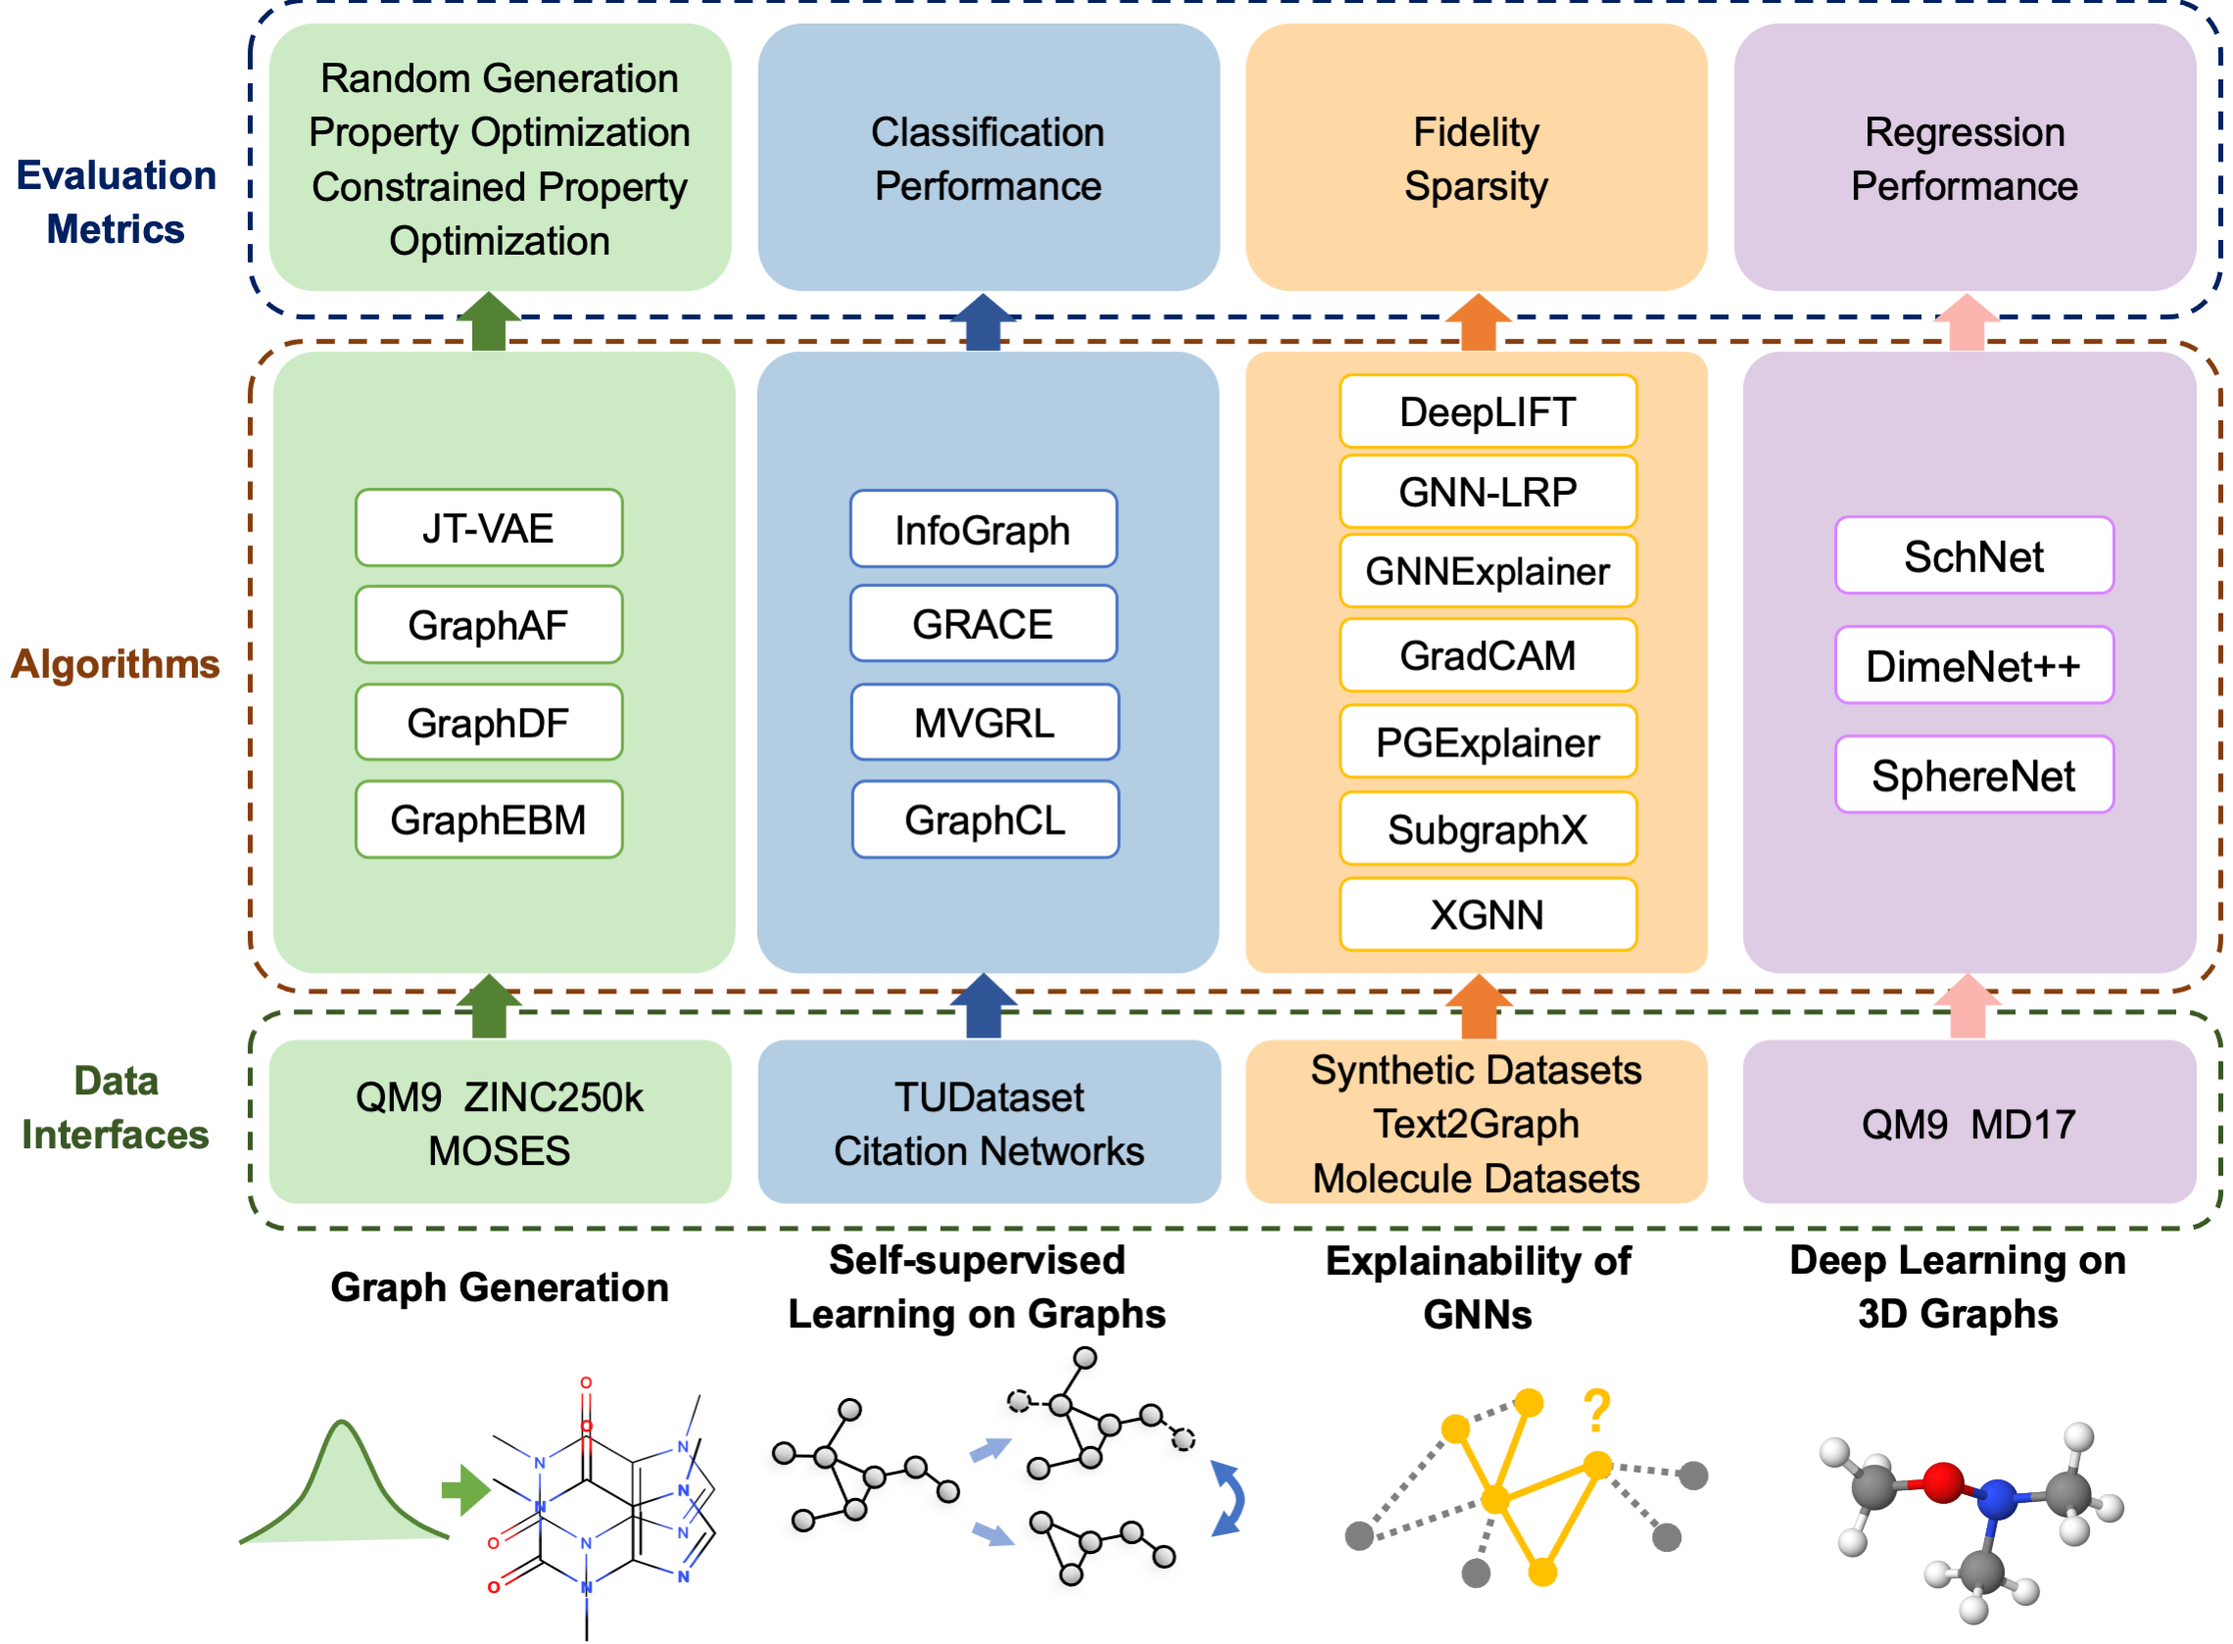
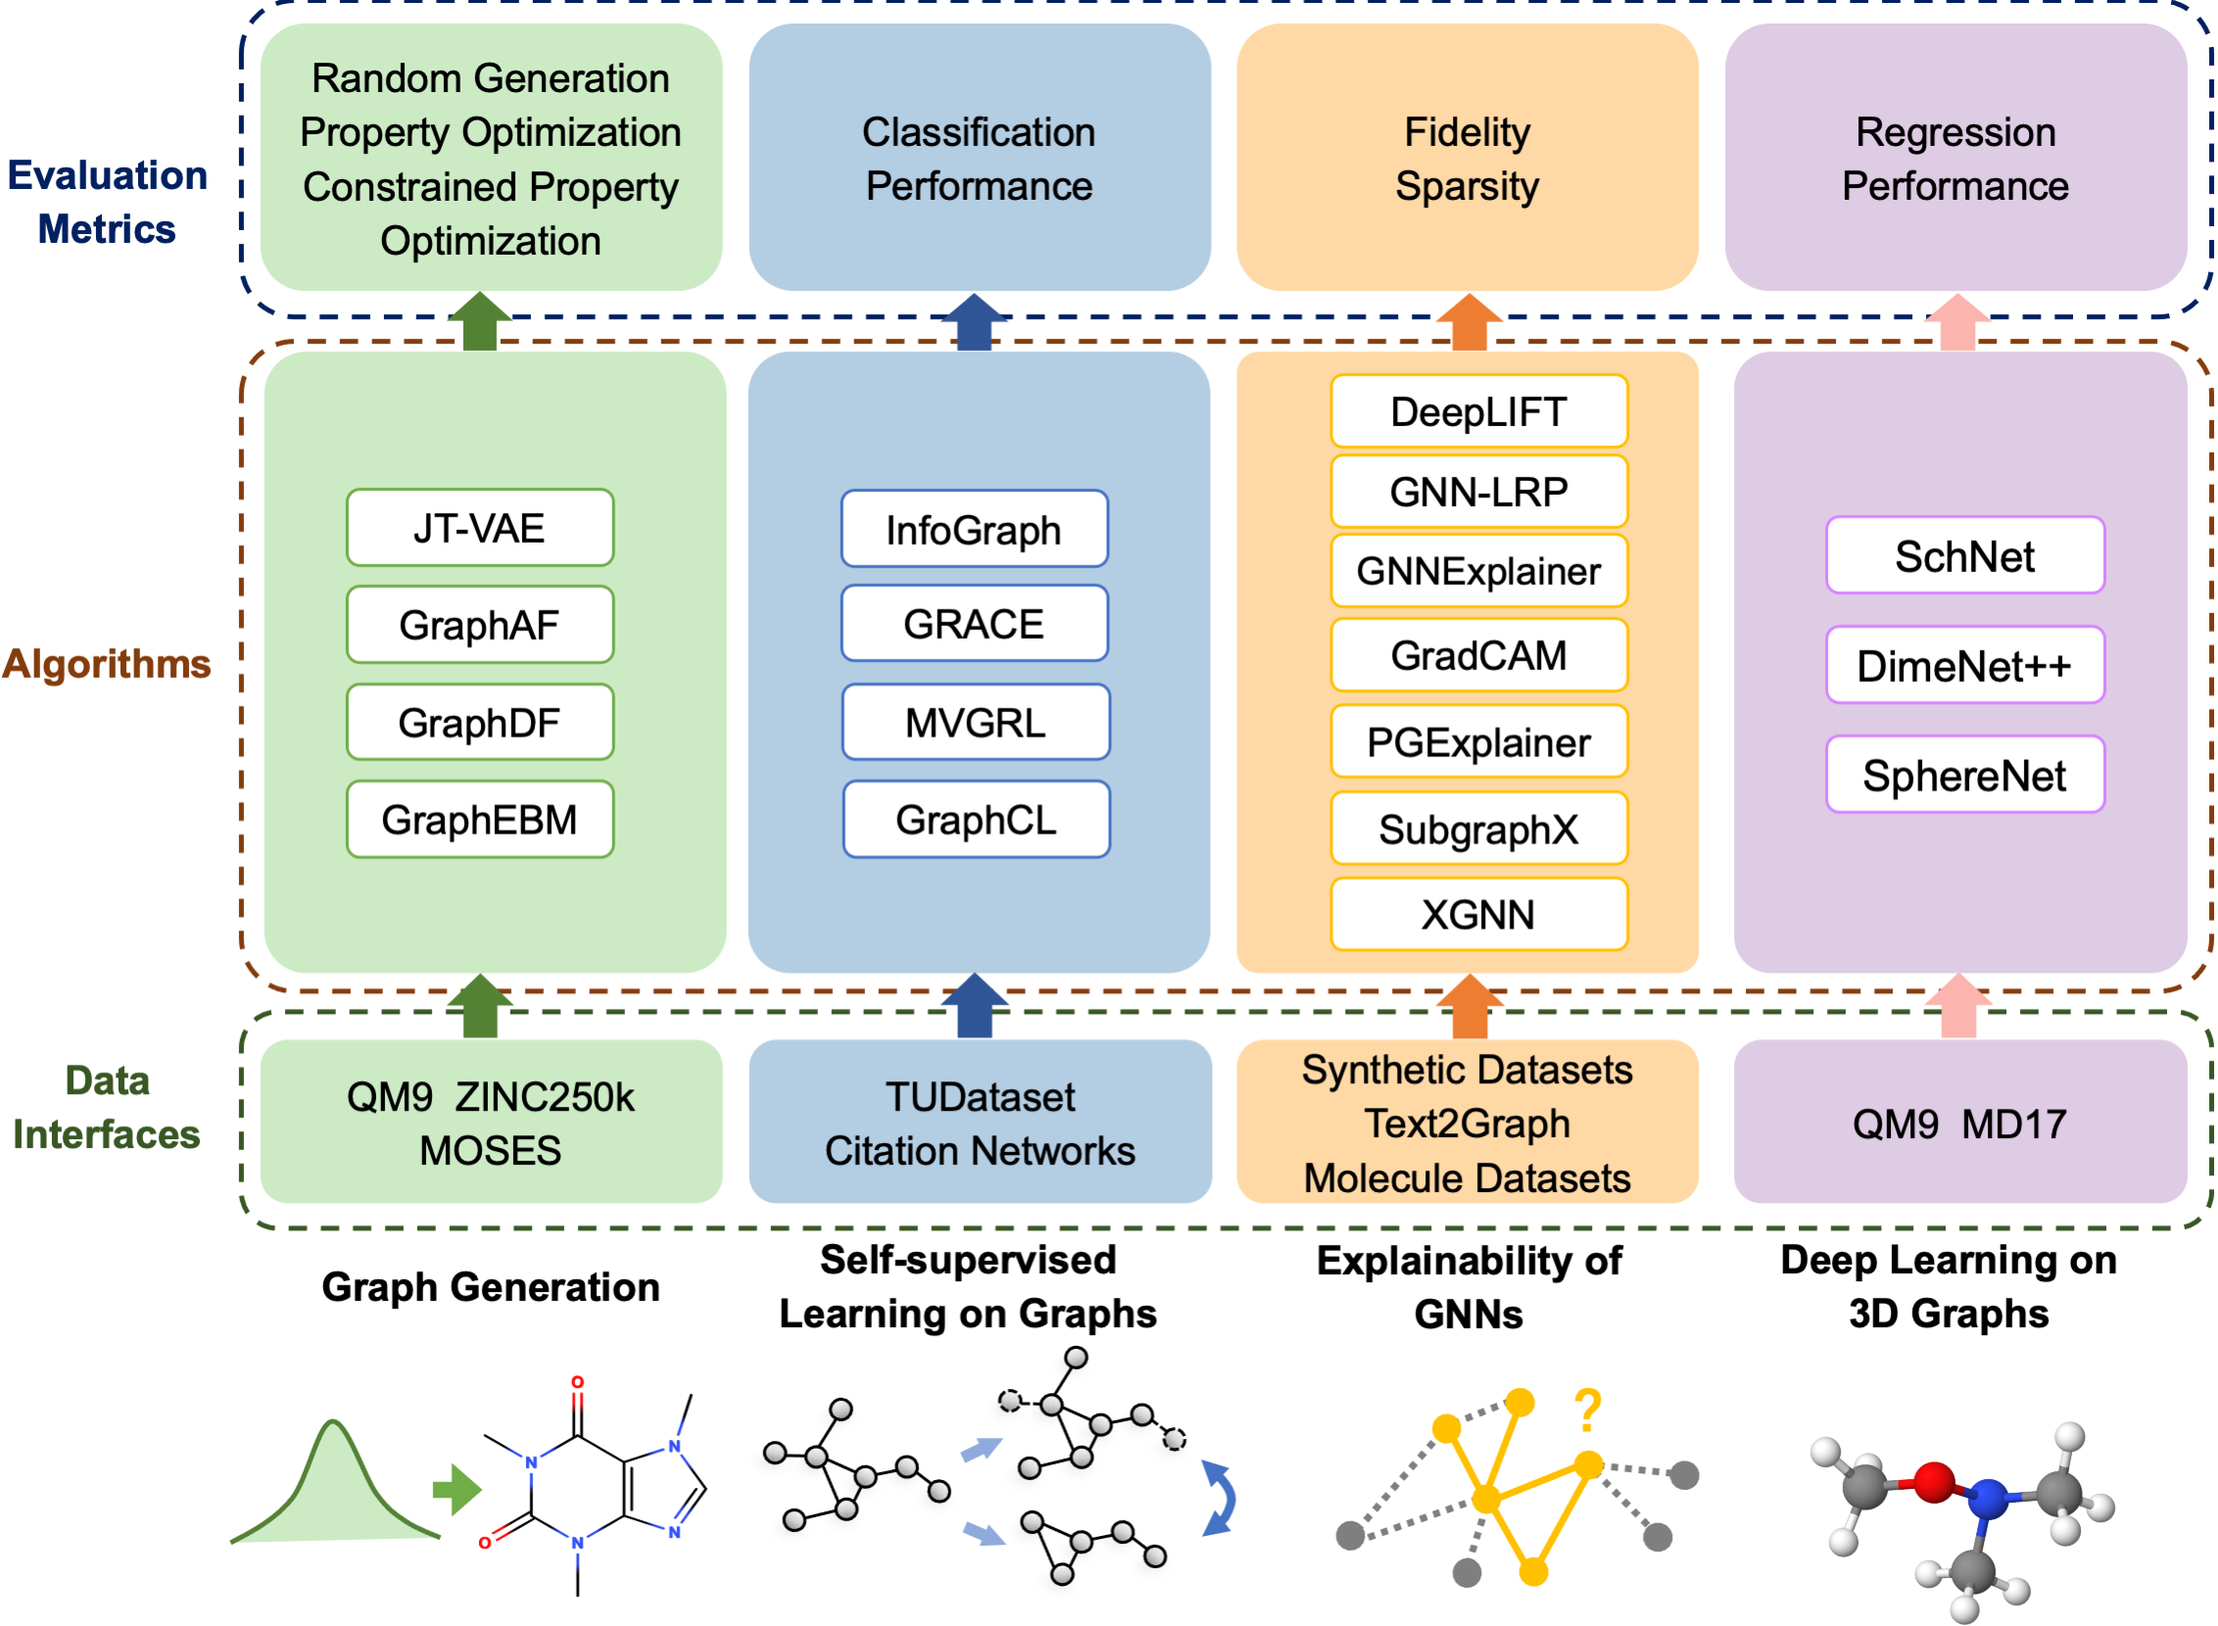
Update figs and add intro in doc

diff --git a/README.md b/README.md
@@ -37,10 +37,10 @@ If you are working or plan to work on research in graph deep learning, DIG enabl
 
 It includes unified implementations of **data interfaces**, **common algorithms**, and **evaluation metrics** for several advanced tasks. Our goal is to enable researchers to easily implement and benchmark algorithms. Currently, we consider the following research directions.
 
-* **Graph Generation**
-* **Self-supervised Learning on Graphs**
-* **Explainability of Graph Neural Networks**
-* **Deep Learning on 3D Graphs**
+* **Graph Generation**: `ggraph`
+* **Self-supervised Learning on Graphs**: `sslgraph`
+* **Explainability of Graph Neural Networks**: `xgraph`
+* **Deep Learning on 3D Graphs**: `3dgraph`
 
 
 
@@ -94,7 +94,7 @@ python setup.py install
 
 ## Usage
 
-We provide [benchmark implementations](https://github.com/divelab/DIG/tree/dig/benchmarks) as examples to use *DIG*. For details of all included APIs, please refer to the [documentation](https://diveintographs.readthedocs.io/).
+We provide [benchmark implementations](https://github.com/divelab/DIG/tree/dig/benchmarks) as examples to use APIs provided in *DIG*. For details of all included APIs, please refer to the [documentation](https://diveintographs.readthedocs.io/).
 
 ## Contributing
 

diff --git a/docs/source/intro/introduction.rst b/docs/source/intro/introduction.rst
@@ -1,2 +1,21 @@
 Introduction of DIG: Dive into Graphs
 ======
+
+DIG includes unified implementations of **data interfaces**, **common algorithms**, and **evaluation metrics** for several advanced tasks. Our goal is to enable researchers to easily implement and benchmark algorithms. Currently, we consider the following research directions.
+
+* **Graph Generation**: :obj:`ggraph`
+* **Self-supervised Learning on Graphs**: :obj:`sslgraph`
+* **Explainability of Graph Neural Networks**: :obj:`xgraph`
+* **Deep Learning on 3D Graphs**: :obj:`3dgraph`
+
+You can refer to `benchmark implementations <https://github.com/divelab/DIG/tree/dig/benchmarks>`_ as examples to use APIs provided in DIG.
+
+.. image:: ../../imgs/DIG-overview.png
+   :width: 100%
+   
+
+   
+   
+
+   
+   

diff --git a/docs/source/index.rst b/docs/source/index.rst
@@ -8,7 +8,7 @@
 DIG: Dive into Graphs Documentation
 ====================================
 
-.. image:: ../imgs/DIG-logo.png
+.. image:: ../imgs/DIG-logo.jpg
    :width: 50%
 
 
